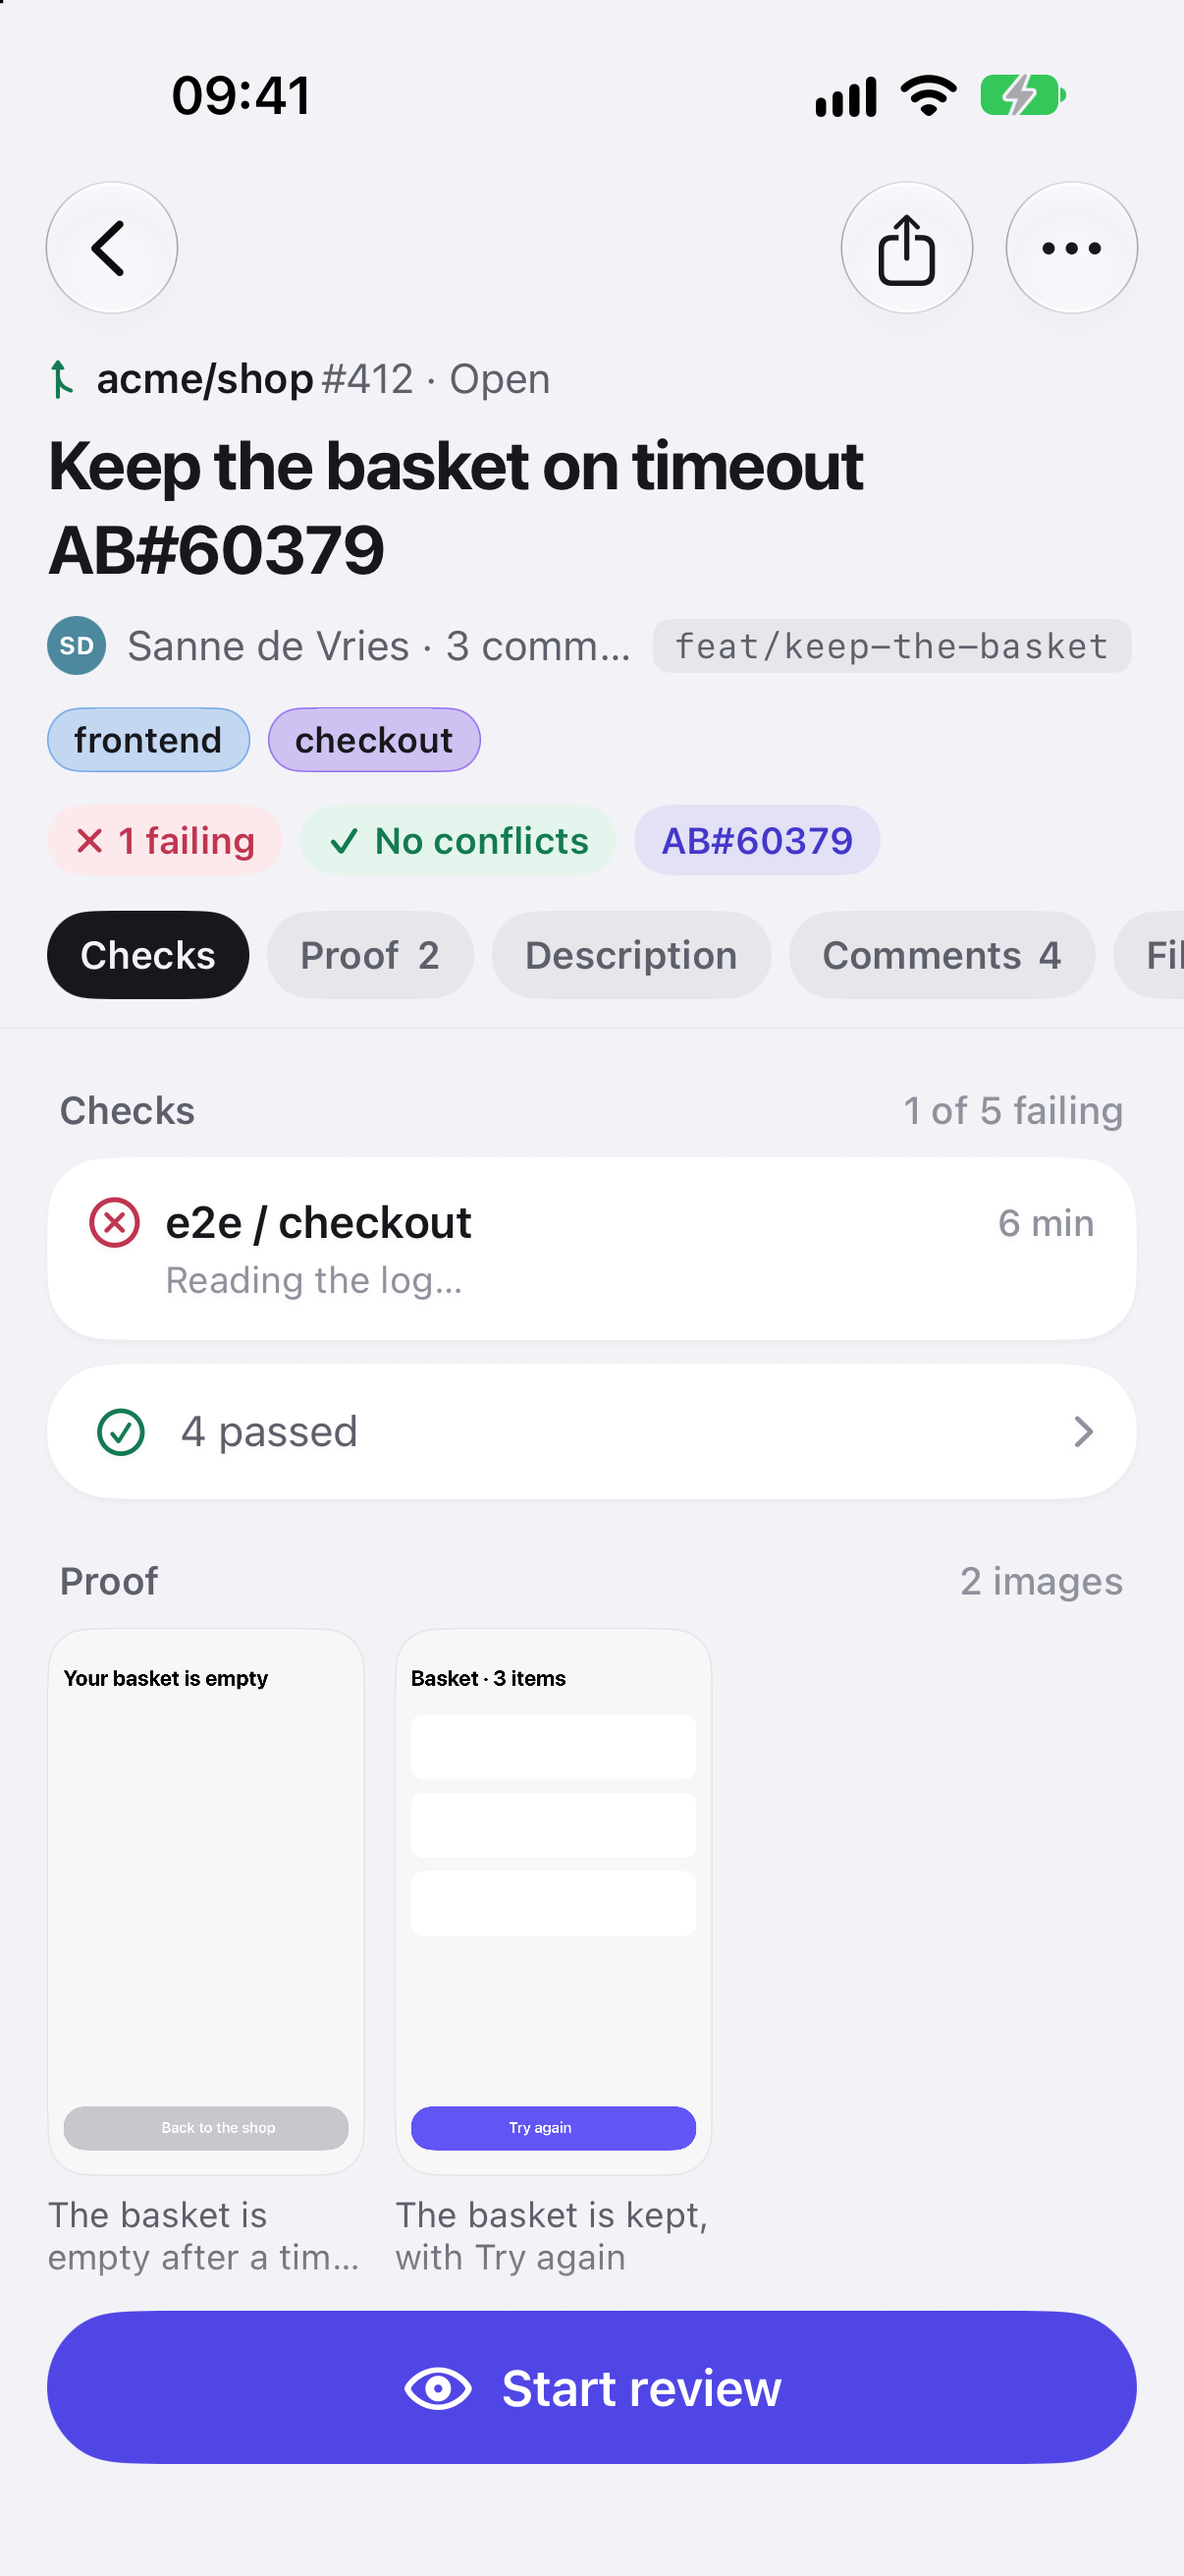
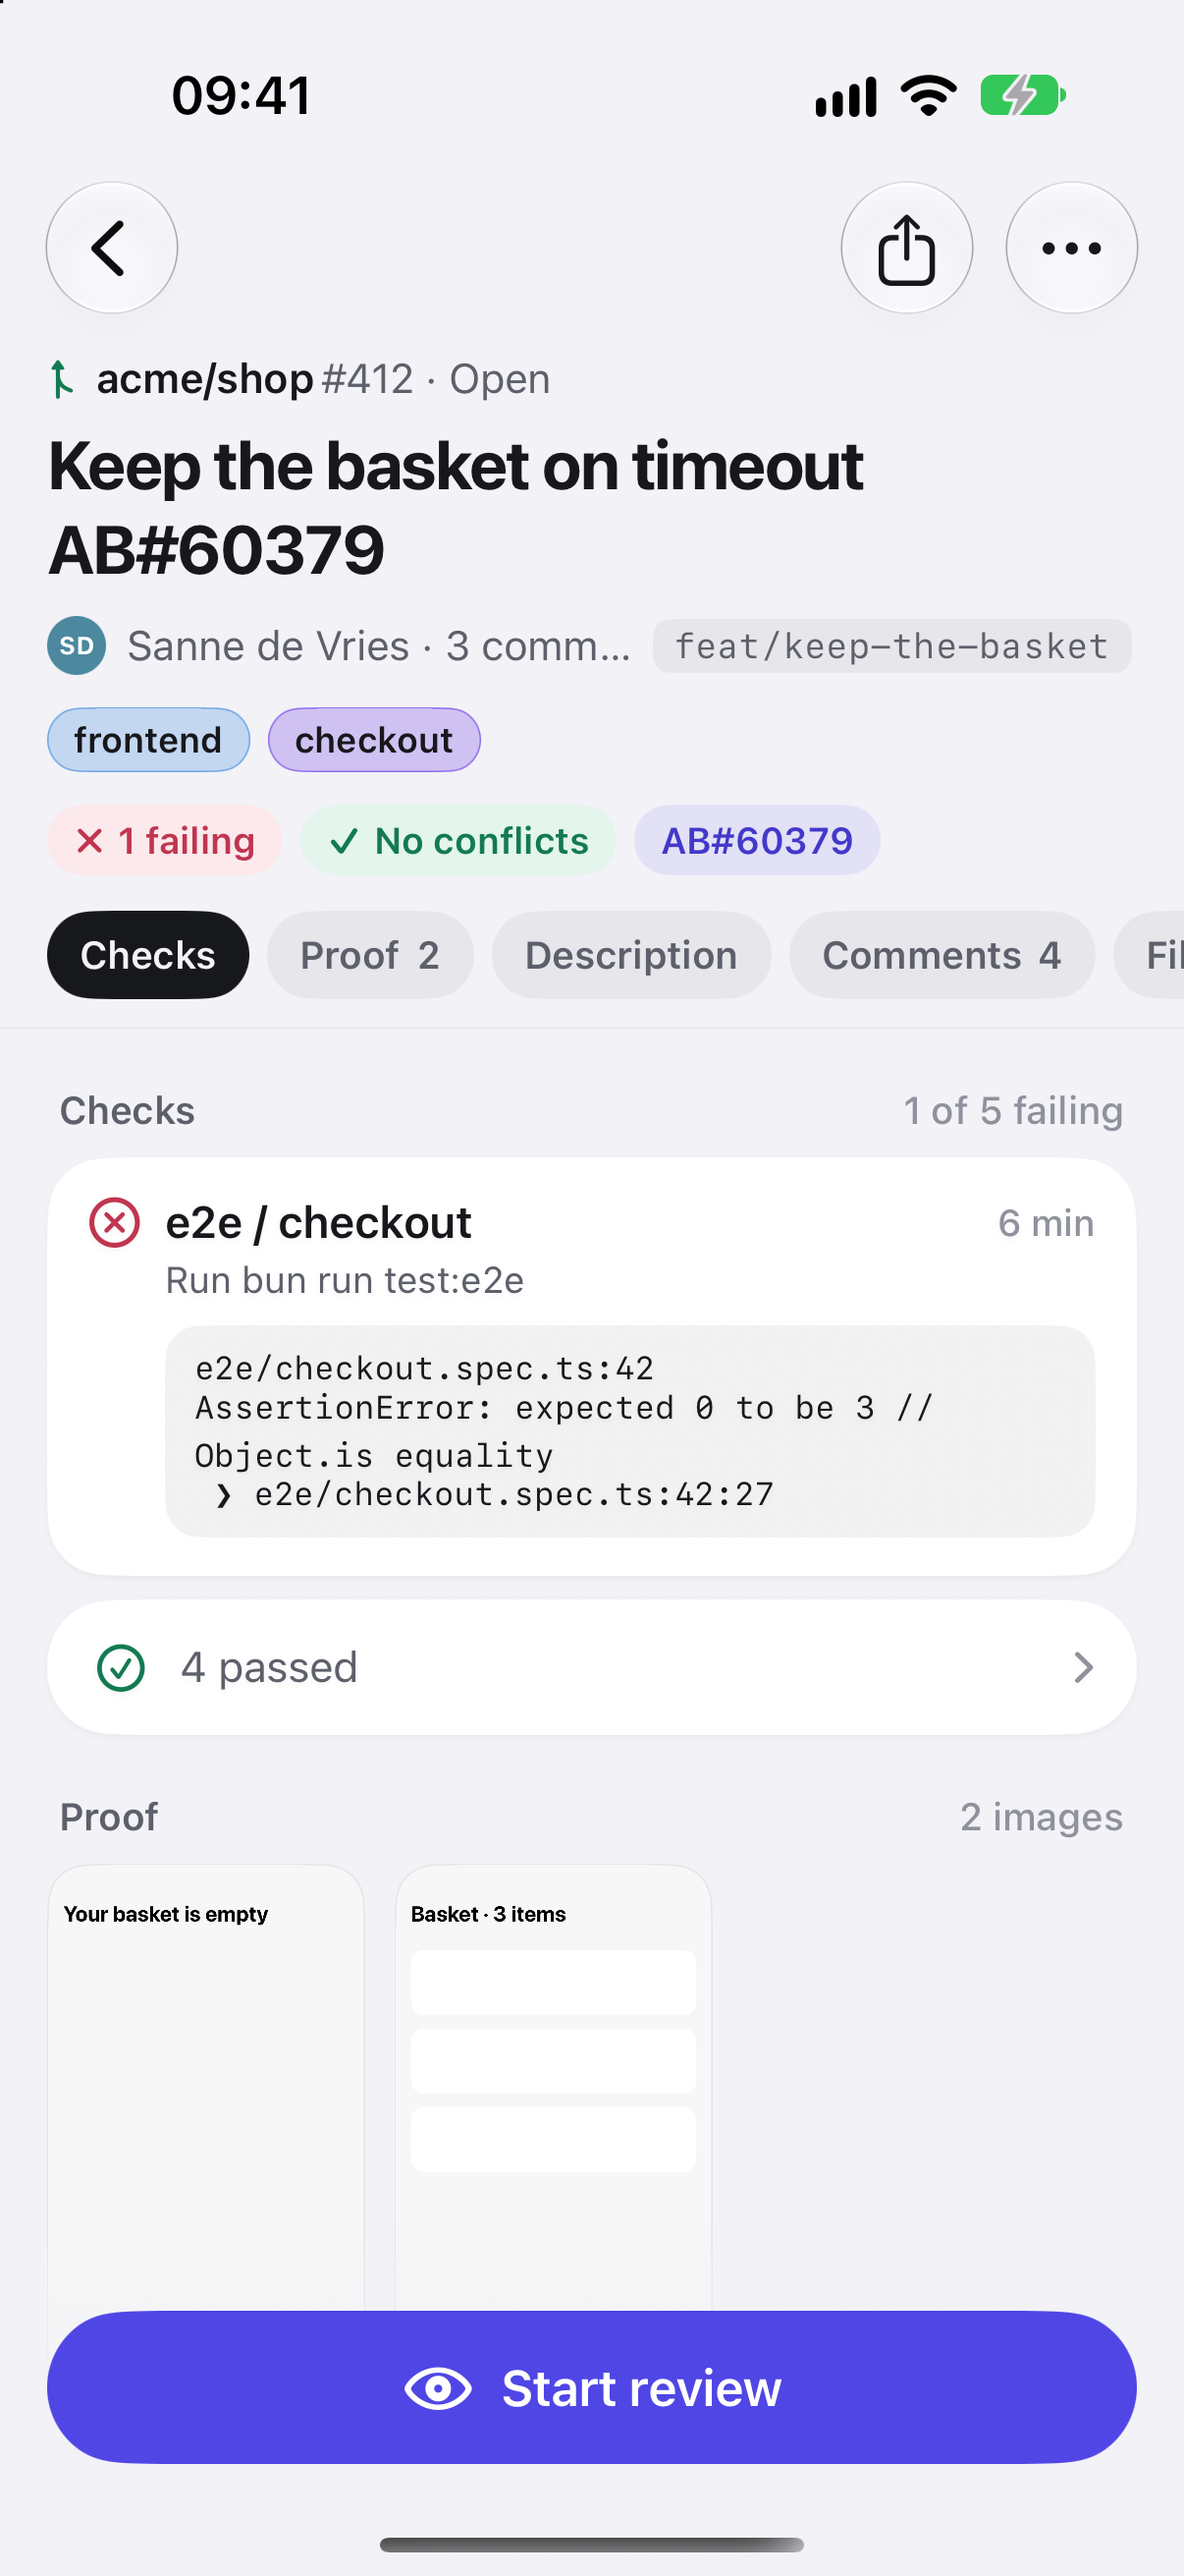
iPhone: BorgDock Review shows why a check is red, read from GitHub's job logs
Wires in the CI port: the made-up data gets a failed job log, and a failed check that has no log on
GitHub Actions (another CI's) says to open the check instead of promising a reason that never comes.

diff --git a/src/BorgDock.iOS/BorgDock/DirectMode/DirectFixture.swift b/src/BorgDock.iOS/BorgDock/DirectMode/DirectFixture.swift
@@ -61,6 +61,9 @@ final class DirectFixtureProtocol: URLProtocol {
 
     override func startLoading() {
         guard let url = request.url else { return }
+        if url.host() == "api.github.com", url.path().hasSuffix("/logs") {
+            return answer(200, Data(GitHubFixture.failedJobLog.utf8), type: "text/plain")
+        }
         if url.host() == Self.imageHost || AdoFixture.isAttachment(url) {
             return answer(200, FixtureImage.png(named: url.query() ?? url.lastPathComponent), type: "image/png")
         }
@@ -280,7 +283,23 @@ private enum GitHubFixture {
         ]
     }
 
+    /// The end of the failed e2e job's log, as Vitest prints a failure.
+    static let failedJobLog = """
+    2026-10-20T09:14:01.8760000Z  FAIL  e2e/checkout.spec.ts > checkout > keeps the basket when the payment times out
+    2026-10-20T09:14:01.8833000Z AssertionError: expected 0 to be 3 // Object.is equality
+    2026-10-20T09:14:01.9417000Z  ❯ e2e/checkout.spec.ts:42:27
+    2026-10-20T09:14:02.1169000Z  Test Files  1 failed | 6 passed (7)
+    2026-10-20T09:14:02.1242000Z       Tests  1 failed | 31 passed (32)
+    2026-10-20T09:14:02.1534000Z error: script "test:e2e" exited with code 1
+    2026-10-20T09:14:02.1607000Z ##[error]Process completed with exit code 1.
+    """
+
     static func rest(method: String, path: String, query: String) -> Any? {
+        if method == "GET", path.contains("/actions/jobs/") {
+            return ["steps": [["name": "Set up job", "conclusion": "success"], ["name": "Run bun run test:e2e", "conclusion": "failure"]]]
+        }
+        // The default branches are green: no failure here is shared with main.
+        if method == "GET", path.hasSuffix("/actions/runs") { return ["workflow_runs": [Any]()] }
         if method == "GET", path.hasSuffix("/files") { return path.contains("/pulls/412/") && !query.contains("page=2") ? files : [Any]() }
         if method == "GET", path.contains("/compare/") { return ["files": [["filename": "src/pricing/round.ts", "status": "modified", "additions": 4, "deletions": 1]]] }
         if method == "POST", path.hasSuffix("/reviews") { return ["id": 9001] }

diff --git a/src/BorgDock.iOS/BorgDock/Features/PullRequest/ChecksSheet.swift b/src/BorgDock.iOS/BorgDock/Features/PullRequest/ChecksSheet.swift
@@ -193,7 +193,7 @@ struct FailedCheckCard: View {
                         .padding(.top, 9)
                     }
                 } else {
-                    Text("Reading the log…").font(.system(size: 12.5)).foregroundStyle(BD.text3).padding(.top, 2)
+                    Text(FailedCheckCard.withoutReason(run)).font(.system(size: 12.5)).foregroundStyle(BD.text3).padding(.top, 2)
                 }
             }
             .padding(.leading, 26)
@@ -204,6 +204,12 @@ struct FailedCheckCard: View {
         .frame(maxWidth: .infinity, alignment: .leading)
         .bdCard(radius: 20, fill: fill)
         .contextMenu { menu }
+    }
+
+    /// What stands where the reason will: the log is being read, or it can't be, because only GitHub Actions jobs
+    /// have a log to read (a check another CI reports never gets a reason here).
+    static func withoutReason(_ run: CheckRun) -> String {
+        run.jobId == nil ? "Open the check to see why it failed." : "Reading the log…"
     }
 
     /// The location line, then the snippet; a snippet that already starts with the location keeps it once.

diff --git a/src/BorgDock.iOS/BorgDockTests/PrPageTests.swift b/src/BorgDock.iOS/BorgDockTests/PrPageTests.swift
@@ -38,6 +38,15 @@ final class PrPageTests: XCTestCase {
         XCTAssertEqual(ChecksLabel.text([run(1, .success)]), "1 passed")
     }
 
+    func testAFailedCheckWithoutAReasonSaysWhetherOneIsComing() {
+        func run(jobId: Int?) -> CheckRun {
+            CheckRun(id: 7, name: "build", workflow: nil, state: .failure, startedAt: nil, completedAt: nil, durationSeconds: nil,
+                     url: "https://ci.example.com/7", runId: jobId.map { _ in 70 }, jobId: jobId, failure: nil)
+        }
+        XCTAssertEqual(FailedCheckCard.withoutReason(run(jobId: 7)), "Reading the log…")
+        XCTAssertEqual(FailedCheckCard.withoutReason(run(jobId: nil)), "Open the check to see why it failed.", "another CI's check has no log on GitHub")
+    }
+
     func testCheckDurationsInWholeMinutes() {
         XCTAssertEqual(CheckDuration.text(45), "45 s")
         XCTAssertEqual(CheckDuration.text(252), "4 min")

diff --git a/CLAUDE.md b/CLAUDE.md
@@ -90,7 +90,7 @@ src/BorgDock.Server/        # Its server and Dispatch's web app (Node 24, own np
 
 A second iPhone app (target `BorgDockReview`) that reads GitHub and Azure DevOps straight from the phone. How it is built, its accounts and its debug launch arguments: `src/BorgDock.iOS/README.md`, "BorgDock Review".
 
-- **`Direct/` ports the server.** `Direct/GitHub` follows `server/src/github/`, `Direct/Ado` follows `server/src/ado/` and `borgdock/item-detail.ts`, and `DirectTests/` reuses the server tests' cases. Change a rule on both sides together.
+- **`Direct/` ports the server.** `Direct/GitHub` follows `server/src/github/` (its `Ci/` the `ci/` folder: why a check is red, related CI failures), `Direct/Ado` follows `server/src/ado/` and `borgdock/item-detail.ts`, and `DirectTests/` reuses the server tests' cases. Change a rule on both sides together.
 - **Verify `Direct/` with `swift test` in `src/BorgDock.iOS`**: seconds on the Mac, no simulator. The package compiles it because it is Foundation only; UIKit and SwiftUI belong in `BorgDock/DirectMode/`.
 - **Both apps compile `BorgDock/` and `Direct/` as one module**, so a type name declared in both collides (`OverallStatus` sat in `PrFacts.swift` and `FocusRules.swift`). Keep the one definition in `Direct/`.
 - **Shared screens ask `app.pullRequests` and `app.workItems`** for pull requests and work items (`app.api` is the server only), and show what needs T3 only when `app.canStartAgents`.

diff --git a/src/BorgDock.iOS/README.md b/src/BorgDock.iOS/README.md
@@ -55,7 +55,7 @@ DevOps straight from the phone, so it needs no BorgDock server, and has no agent
   the server client in BorgDock, `GitHubDirect` and `AdoWorkItems` here. `AppModel.direct` is set in this app only;
   `canStartAgents` hides what needs T3.
 - **`Direct/`** is the Swift port of the server's `github/` and `ado/` code: the same searches, Focus rules, file
-  categories and item page. Change a rule on both sides together. It is Foundation only, so `Package.swift` compiles
+  categories, failure reasons from job logs, related CI failures and item page. Change a rule on both sides together. It is Foundation only, so `Package.swift` compiles
   it on the Mac: `swift test` runs `DirectTests/` in seconds, without a simulator (the Xcode test target runs them too).
 - **Accounts** (`BorgDock/DirectMode/`): a token per GitHub account (classic, `repo` and `read:org`, single sign-on
   authorized) and one Azure DevOps organization, project and personal access token. They live in the Keychain of the
